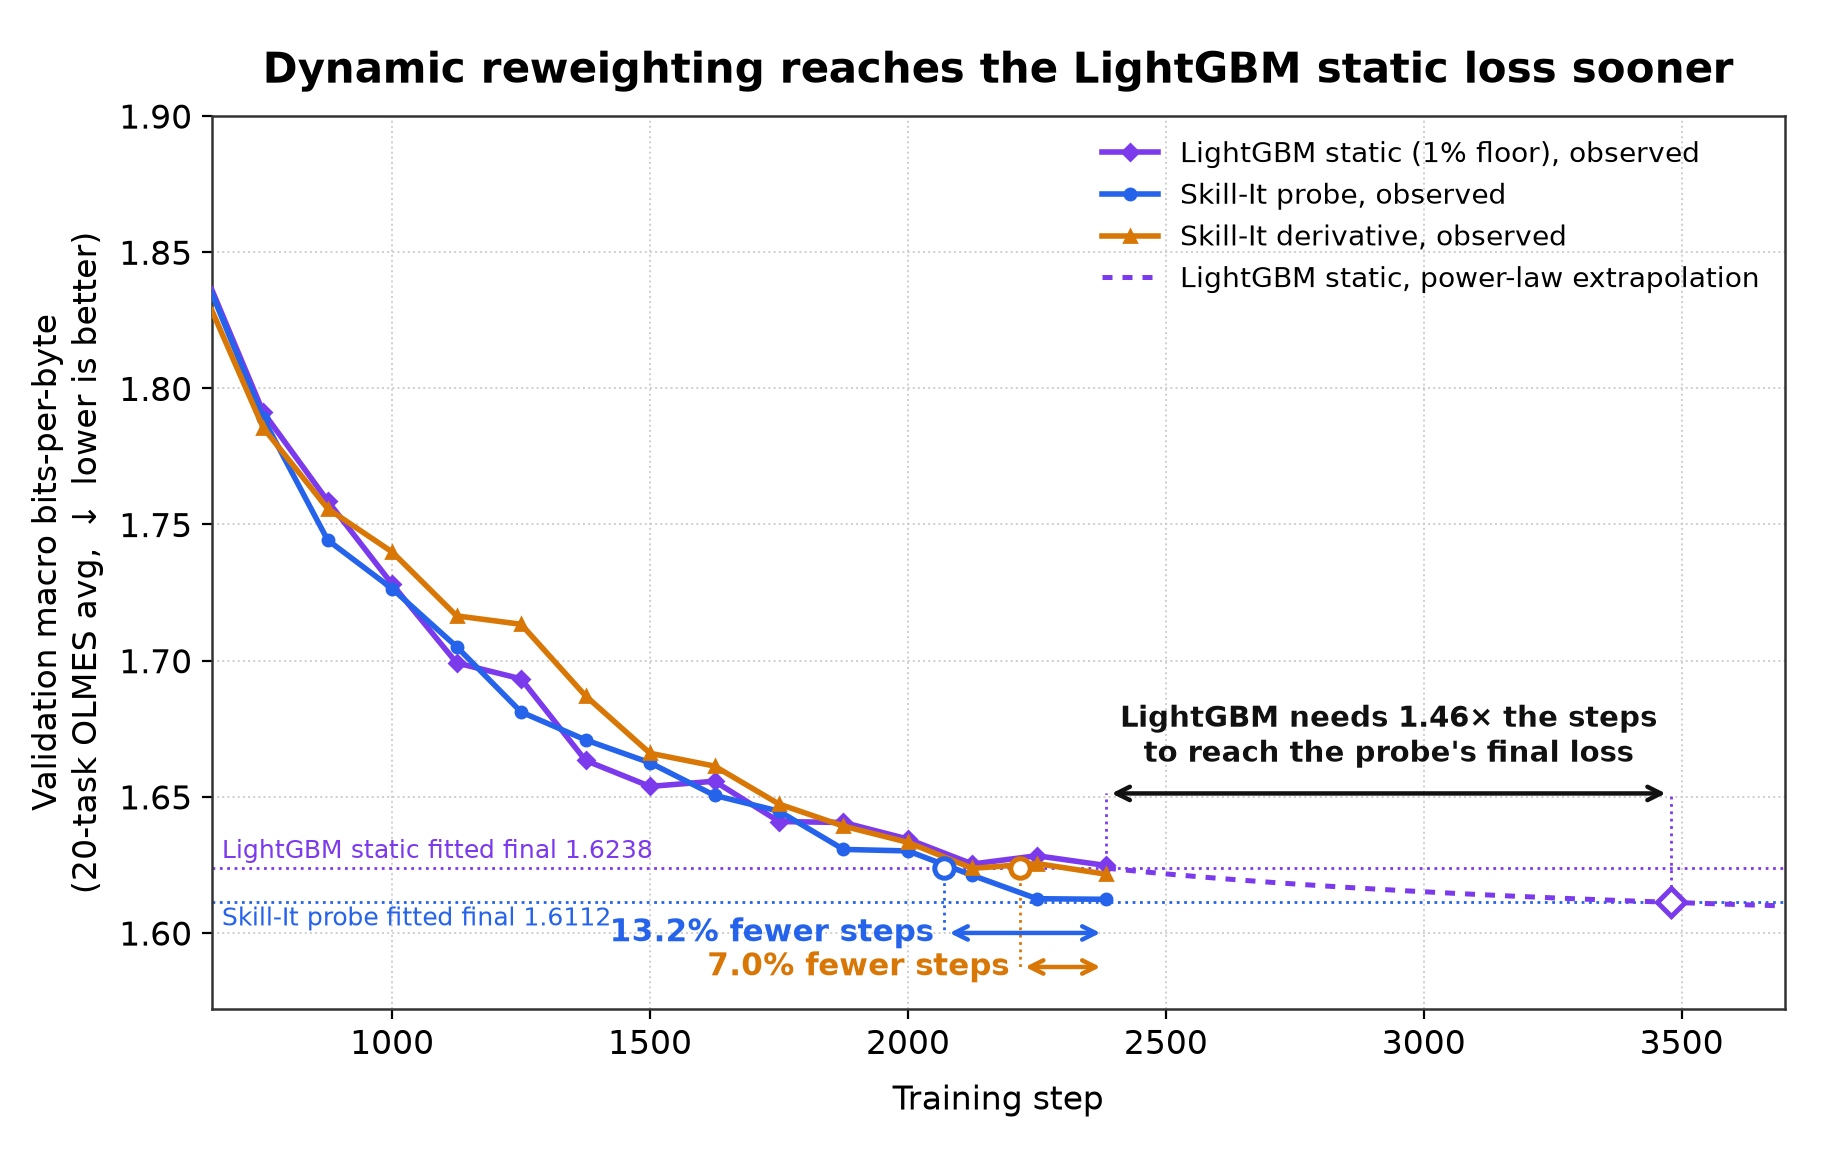
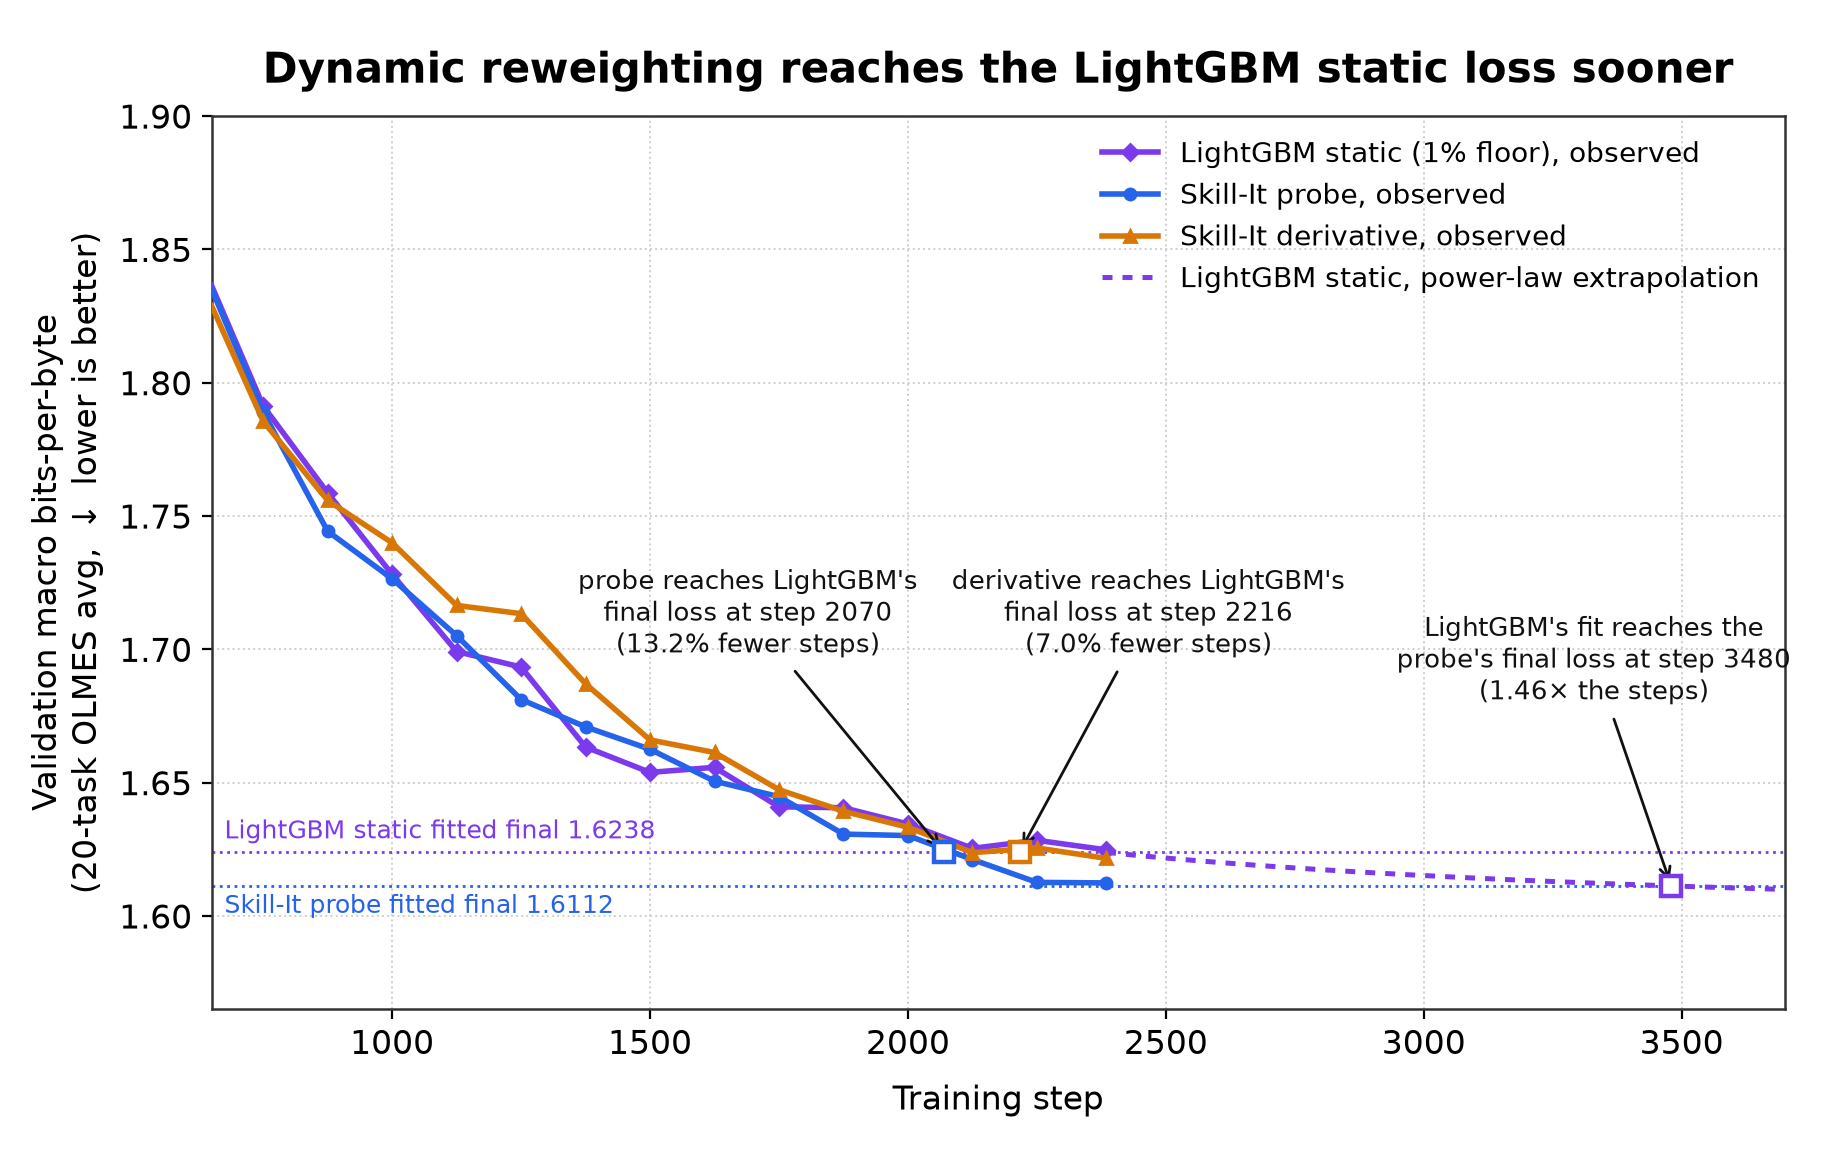
Figure III: match the original figure's layout
One marker and short label per crossing, as in the original Figure III: each
Skill-It arm reaching the LightGBM static final loss (with its gross step
saving), and LightGBM's extrapolation reaching the probe arm's final loss
(1.46x the steps). Arrows and connector lines removed.

diff --git a/experiments/skill-dag/mixlaw/plot_figure_iii_compute_savings.py b/experiments/skill-dag/mixlaw/plot_figure_iii_compute_savings.py
@@ -344,43 +344,29 @@ ax.plot(ext, powerlaw(ext, *ref["pt"]), color=STYLE[REF_KEY][1], linestyle=(0, (
         linewidth=1.8, zorder=2, label="LightGBM static, power-law extrapolation")
 
 probe = dyn_results["skillit-probe"]
-for key, y0 in ((REF_KEY, ref["fitted"]), ("skillit-probe", probe["fitted_final"])):
+for key, y0, dy, va in ((REF_KEY, ref["fitted"], 0.0030, "bottom"),
+                        ("skillit-probe", probe["fitted_final"], -0.0030, "top")):
     ax.axhline(y0, color=STYLE[key][1], linestyle=":", linewidth=1.0, zorder=1)
-    above = key == REF_KEY
-    ax.text(X_LEFT + 20, y0 + (0.0015 if above else -0.0015),
-            f"{STYLE[key][0].split(' (')[0]} fitted final {y0:.4f}",
-            ha="left", va="bottom" if above else "top", fontsize=9, color=STYLE[key][1])
+    ax.text(X_LEFT + 25, y0 + dy, f"{STYLE[key][0].split(' (')[0]} fitted final {y0:.4f}",
+            ha="left", va=va, fontsize=9, color=STYLE[key][1])
 
-# Gross step savings: where each dynamic arm's fitted curve reaches LightGBM's
-# final fitted loss, with an arrow (below the curves) to the end of the run.
-for key, y in (("skillit-probe", 1.6000), ("skillit-derivative", 1.5875)):
-    r = dyn_results[key]
-    xc = r["reaches_lightgbm_final"]["point_estimate_step"]
-    color = STYLE[key][1]
-    ax.plot([xc], [ref["fitted"]], marker="o", markersize=7, markerfacecolor="white",
-            markeredgecolor=color, markeredgewidth=1.8, zorder=6, linestyle="none")
-    ax.plot([xc, xc], [ref["fitted"], y], color=color, linestyle=":", linewidth=1.0, zorder=2)
-    ax.annotate("", xy=(xc, y), xytext=(FINAL_STEP, y),
-                arrowprops=dict(arrowstyle="<->", color=color, lw=1.6))
-    ax.text(xc - 20, y, f"{100 * r['gross_step_saving']['point']:.1f}% fewer steps",
-            ha="right", va="center", fontsize=11, fontweight="bold", color=color)
-
-# Converse: LightGBM's extrapolation reaches the probe arm's final loss.
+# One marker and label per crossing, as in the original figure.
+crossings = [
+    (dyn_results[k]["reaches_lightgbm_final"]["point_estimate_step"], ref["fitted"], STYLE[k][1],
+     f"{DYNAMIC[k]['name'].split()[-1]} reaches LightGBM's\nfinal loss at step "
+     f"{dyn_results[k]['reaches_lightgbm_final']['point_estimate_step']:.0f}\n"
+     f"({100 * dyn_results[k]['gross_step_saving']['point']:.1f}% fewer steps)", (dx, dy))
+    for k, (dx, dy) in (("skillit-probe", (-380, 0.075)), ("skillit-derivative", (250, 0.075)))
+]
 conv = probe["converse_lightgbm_reaches_arm_final"]
-xs = conv["point_estimate_step"]
-y_arrow = probe["fitted_final"] + 0.040
-ax.plot([xs], [probe["fitted_final"]], marker="D", markersize=7, markerfacecolor="white",
-        markeredgecolor=STYLE[REF_KEY][1], markeredgewidth=1.8, zorder=6, linestyle="none")
-ax.plot([xs, xs], [probe["fitted_final"], y_arrow], color=STYLE[REF_KEY][1], linestyle=":",
-        linewidth=1.0, zorder=2)
-ax.plot([FINAL_STEP, FINAL_STEP], [ref["fitted"], y_arrow], color=STYLE[REF_KEY][1],
-        linestyle=":", linewidth=1.0, zorder=2)
-ax.annotate("", xy=(FINAL_STEP, y_arrow), xytext=(xs, y_arrow),
-            arrowprops=dict(arrowstyle="<->", color="#111", lw=1.6))
-ax.text((FINAL_STEP + xs) / 2, y_arrow + 0.008,
-        f"LightGBM needs {conv['point_estimate_multiple_of_run']:.2f}× the steps\n"
-        "to reach the probe's final loss",
-        ha="center", va="bottom", fontsize=10.5, fontweight="bold", color="#111")
+crossings.append((conv["point_estimate_step"], probe["fitted_final"], STYLE[REF_KEY][1],
+                  f"LightGBM's fit reaches the\nprobe's final loss at step {conv['point_estimate_step']:.0f}\n"
+                  f"({conv['point_estimate_multiple_of_run']:.2f}\u00d7 the steps)", (-150, 0.070)))
+for x, y, color, text, (dx, dy) in crossings:
+    ax.plot([x], [y], marker="s", markersize=7, markerfacecolor="white", markeredgecolor=color,
+            markeredgewidth=1.6, zorder=6, linestyle="none")
+    ax.annotate(text, xy=(x, y), xytext=(x + dx, y + dy), ha="center", fontsize=9.5, color="#111",
+                arrowprops=dict(arrowstyle="->", color="#111", lw=1.0))
 
 ax.set_xlabel("Training step", labelpad=8)
 ax.set_ylabel("Validation macro bits-per-byte\n(20-task OLMES avg, $\\downarrow$ lower is better)")
@@ -389,7 +375,7 @@ ax.set_title("Dynamic reweighting reaches the LightGBM static loss sooner",
 ax.grid(True, linestyle=":", linewidth=0.7, color="#c9c9c9", alpha=0.9)
 ax.set_axisbelow(True)
 ax.set_xlim(X_LEFT, X_RIGHT)
-ax.set_ylim(1.572, 1.90)
+ax.set_ylim(1.565, 1.90)
 ax.legend(loc="upper right", frameon=False, fontsize=10)
 
 fig.subplots_adjust(left=0.115, right=0.97, top=0.90, bottom=0.13)
